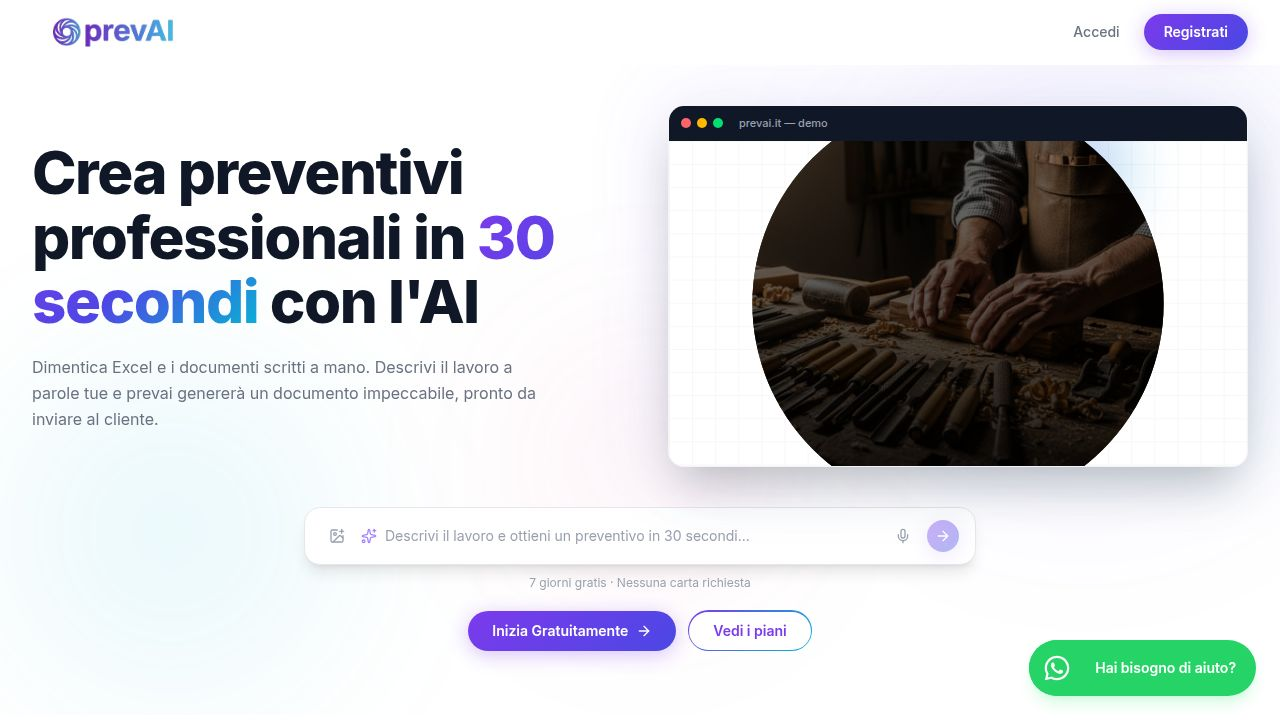
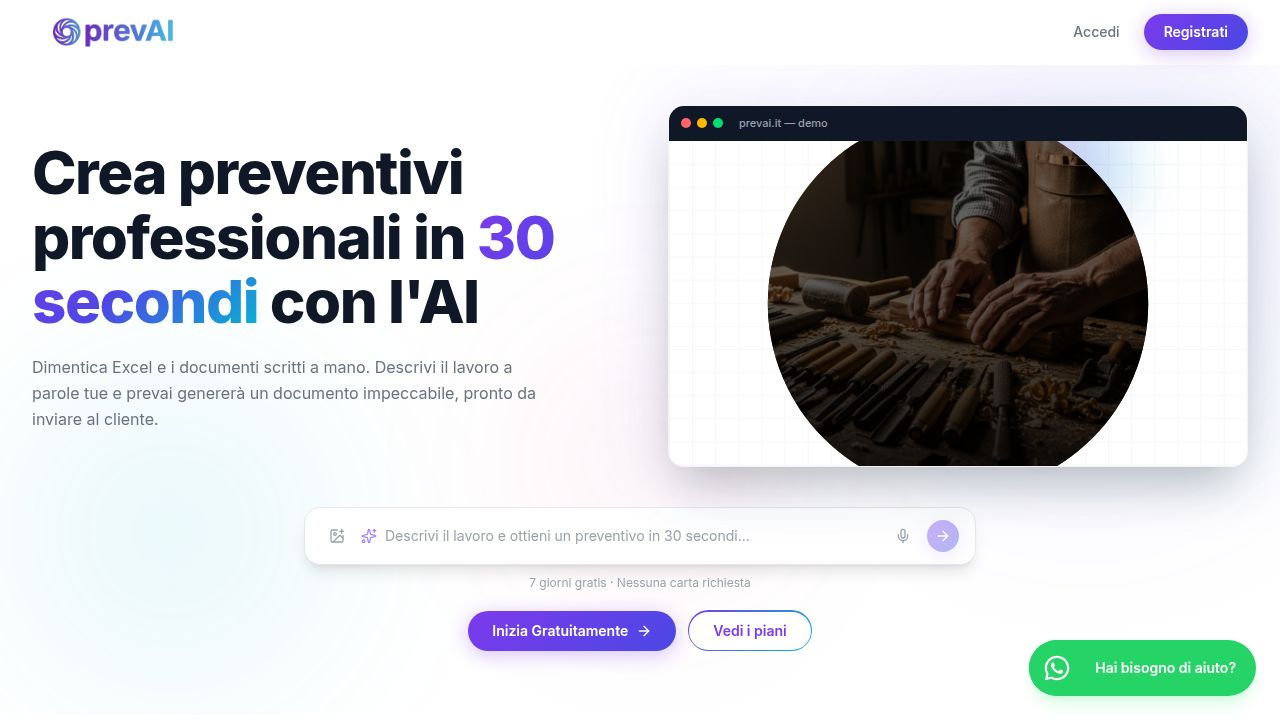
Fix issues with user subscriptions and Stripe integration
Update API routes and frontend components to improve Stripe checkout flow, sync subscriptions, and fix navigation bugs.

Replit-Commit-Author: Agent
Replit-Commit-Session-Id: e183ab62-cb45-4717-a990-93f862e1965c
Replit-Commit-Checkpoint-Type: full_checkpoint
Replit-Commit-Event-Id: d3cb8f5f-2fd4-4e40-afc7-9085f1753f19
Replit-Commit-Screenshot-Url: https://storage.googleapis.com/screenshot-production-us-central1/5499c56c-9209-458b-87bc-348e7a6ceb18/e183ab62-cb45-4717-a990-93f862e1965c/eNU0RqO
Replit-Helium-Checkpoint-Created: true

Changed region(s): [[0.5625, 0.1833, 0.6875, 0.6417], [0.8125, 0.1833, 0.9062, 0.5806], [0.8125, 0.5806, 0.875, 0.6417]]

diff --git a/artifacts/api-server/src/routes/admin.ts b/artifacts/api-server/src/routes/admin.ts
@@ -267,6 +267,70 @@ router.post("/admin/sync-subscription", async (req, res) => {
   }
 });
 
+// Force-link a Stripe customer to a prevai user (useful when emails don't match)
+router.post("/admin/sync-by-customer", requireAdmin, async (req, res) => {
+  try {
+    const { stripeCustomerId, userEmail } = req.body as { stripeCustomerId?: string; userEmail?: string };
+    if (!stripeCustomerId || !userEmail) {
+      res.status(400).json({ error: "stripeCustomerId and userEmail required" });
+      return;
+    }
+
+    // Find prevai user by email
+    const [authUser] = await db
+      .select({ id: authUsersTable.id })
+      .from(authUsersTable)
+      .where(eq(authUsersTable.email, userEmail));
+    if (!authUser) {
+      res.status(404).json({ error: `No app user found for email: ${userEmail}` });
+      return;
+    }
+
+    const stripe = await getUncachableStripeClient();
+
+    // Fetch subscriptions for this customer from Stripe
+    const subs = await stripe.subscriptions.list({ customer: stripeCustomerId, status: "all", limit: 10 });
+    const activeSub = subs.data.find(s => s.status === "active" || s.status === "trialing") ?? subs.data[0];
+
+    if (!activeSub) {
+      res.status(404).json({ error: `No subscriptions found for customer: ${stripeCustomerId}` });
+      return;
+    }
+
+    const priceId = activeSub.items.data[0]?.price?.id;
+    const planType = priceId ? PRICE_TO_PLAN[priceId] : undefined;
+    const isActive = activeSub.status === "active" || activeSub.status === "trialing";
+
+    if (!planType) {
+      res.status(400).json({ error: `Unknown price ID: ${priceId} — add to PRICE_TO_PLAN map` });
+      return;
+    }
+
+    await db
+      .insert(businessProfilesTable)
+      .values({
+        userId: authUser.id,
+        stripeCustomerId,
+        subscriptionPlan: isActive ? planType : null,
+        subscriptionStatus: isActive ? "active" : activeSub.status,
+      })
+      .onConflictDoUpdate({
+        target: businessProfilesTable.userId,
+        set: {
+          stripeCustomerId,
+          subscriptionPlan: isActive ? planType : null,
+          subscriptionStatus: isActive ? "active" : activeSub.status,
+        },
+      });
+
+    logger.info({ userId: authUser.id, stripeCustomerId, planType, status: activeSub.status }, "Admin force-linked customer to user");
+    res.json({ ok: true, userId: authUser.id, stripeCustomerId, planType, status: activeSub.status });
+  } catch (err) {
+    logger.error({ err }, "Admin sync-by-customer error");
+    res.status(500).json({ error: "Internal server error" });
+  }
+});
+
 router.get("/admin/quote-stats", async (_req, res) => {
   try {
     const last30 = new Date();

diff --git a/artifacts/api-server/src/routes/payments.ts b/artifacts/api-server/src/routes/payments.ts
@@ -1,7 +1,7 @@
 import { Router } from "express";
 import { requireAuth, getUserId } from "../middlewares/authMiddleware";
 import { getBaseUrl } from "../lib/baseUrl";
-import { db, quotesTable, businessProfilesTable } from "@workspace/db";
+import { db, quotesTable, businessProfilesTable, authUsersTable } from "@workspace/db";
 import { eq, sql } from "drizzle-orm";
 import { CreateCheckoutSessionBody } from "@workspace/api-zod";
 import { getUncachableStripeClient } from "../stripeClient";
@@ -174,7 +174,17 @@ router.post("/payments/checkout", requireAuth, async (req, res) => {
       ? `${baseUrl}/dashboard/quotes/${quoteId}?payment=cancelled`
       : `${baseUrl}/dashboard?payment=cancelled`;
 
-    const session = await stripe.checkout.sessions.create({
+    // Look up user email and existing stripeCustomerId to pre-fill checkout and avoid duplicate customers
+    const [profile] = await db
+      .select({ stripeCustomerId: businessProfilesTable.stripeCustomerId })
+      .from(businessProfilesTable)
+      .where(eq(businessProfilesTable.userId, userId));
+    const [authUser] = await db
+      .select({ email: authUsersTable.email })
+      .from(authUsersTable)
+      .where(eq(authUsersTable.id, userId));
+
+    const sessionParams: Parameters<typeof stripe.checkout.sessions.create>[0] = {
       payment_method_types: ["card"],
       line_items: [{ price: plan.stripePriceId, quantity: 1 }],
       mode: plan.interval ? "subscription" : "payment",
@@ -187,7 +197,17 @@ router.post("/payments/checkout", requireAuth, async (req, res) => {
         planType,
         hasWatermark: String(plan.hasWatermark),
       },
-    });
+    };
+
+    // Reuse existing Stripe customer (prevents duplicate customers and ensures email match)
+    if (profile?.stripeCustomerId) {
+      sessionParams.customer = profile.stripeCustomerId;
+    } else if (authUser?.email) {
+      // Pre-fill email so the Stripe customer is created with the correct prevai email
+      sessionParams.customer_email = authUser.email;
+    }
+
+    const session = await stripe.checkout.sessions.create(sessionParams);
 
     if (quoteId) {
       await db

diff --git a/artifacts/preventivo-ai/src/pages/dashboard/billing.tsx b/artifacts/preventivo-ai/src/pages/dashboard/billing.tsx
@@ -16,7 +16,7 @@ import {
   XCircle,
   Loader2,
 } from "lucide-react";
-import { Link } from "wouter";
+
 
 function QuotaBar({ used, limit }: { used: number; limit: number }) {
   const pct = Math.min(100, Math.round((used / limit) * 100));
@@ -95,6 +95,13 @@ export default function BillingPage() {
         month: "long",
       })
     : null;
+
+  const handleChoosePlan = () => {
+    createPortal.mutate(undefined, {
+      onSuccess: (r) => { window.open(r.url, "_blank"); },
+      onError: () => { window.location.href = "/#prezzi"; },
+    });
+  };
 
   return (
     <div className="max-w-2xl mx-auto space-y-6 animate-in fade-in duration-500">
@@ -251,13 +258,14 @@ export default function BillingPage() {
             </div>
           </CardHeader>
           <CardContent>
-            <Link
-              href="/dashboard/quotes"
-              className="btn-gradient inline-flex h-10 items-center justify-center px-5 text-sm font-semibold gap-2"
+            <button
+              onClick={handleChoosePlan}
+              disabled={createPortal.isPending}
+              className="btn-gradient inline-flex h-10 items-center justify-center px-5 text-sm font-semibold gap-2 disabled:opacity-60"
             >
-              <Crown className="h-4 w-4" />
+              {createPortal.isPending ? <Loader2 className="h-4 w-4 animate-spin" /> : <Crown className="h-4 w-4" />}
               Scegli un piano
-            </Link>
+            </button>
           </CardContent>
         </Card>
       )}

diff --git a/artifacts/preventivo-ai/src/pages/dashboard/settings.tsx b/artifacts/preventivo-ai/src/pages/dashboard/settings.tsx
@@ -269,7 +269,7 @@ function BillingTab() {
   const handleManage = () => {
     createPortal.mutate(undefined, {
       onSuccess: (r) => { window.open(r.url, "_blank"); },
-      onError: () => toast({ title: "Errore apertura portale", variant: "destructive" }),
+      onError: () => { window.location.href = "/#prezzi"; },
     });
   };
   if (isLoading) return <Skeleton className="h-48 w-full rounded-2xl" />;